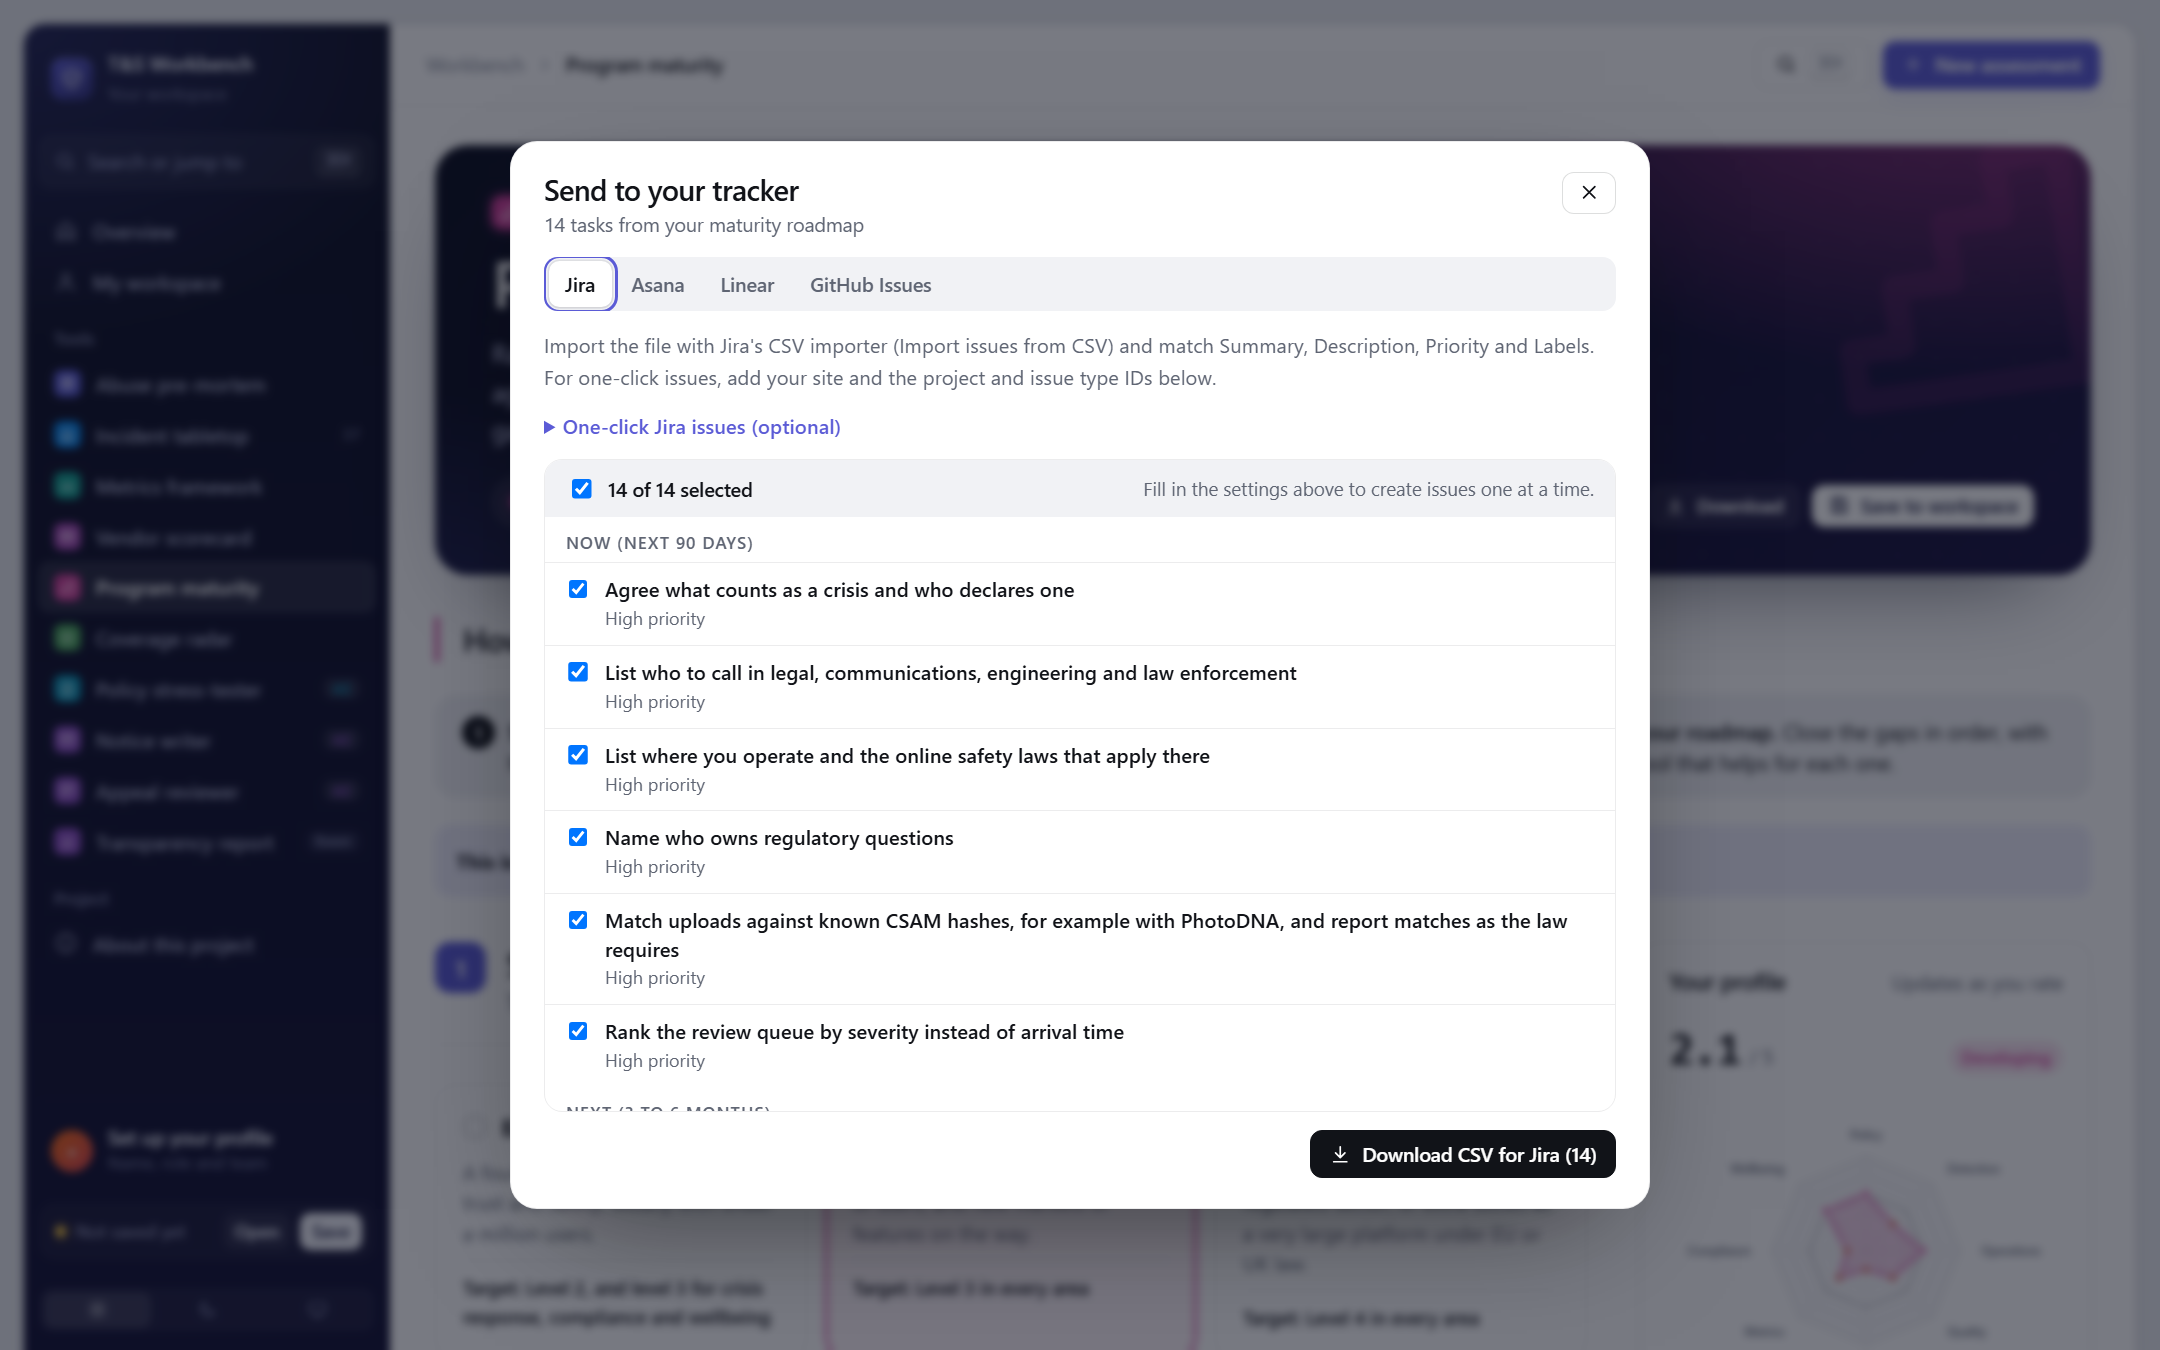
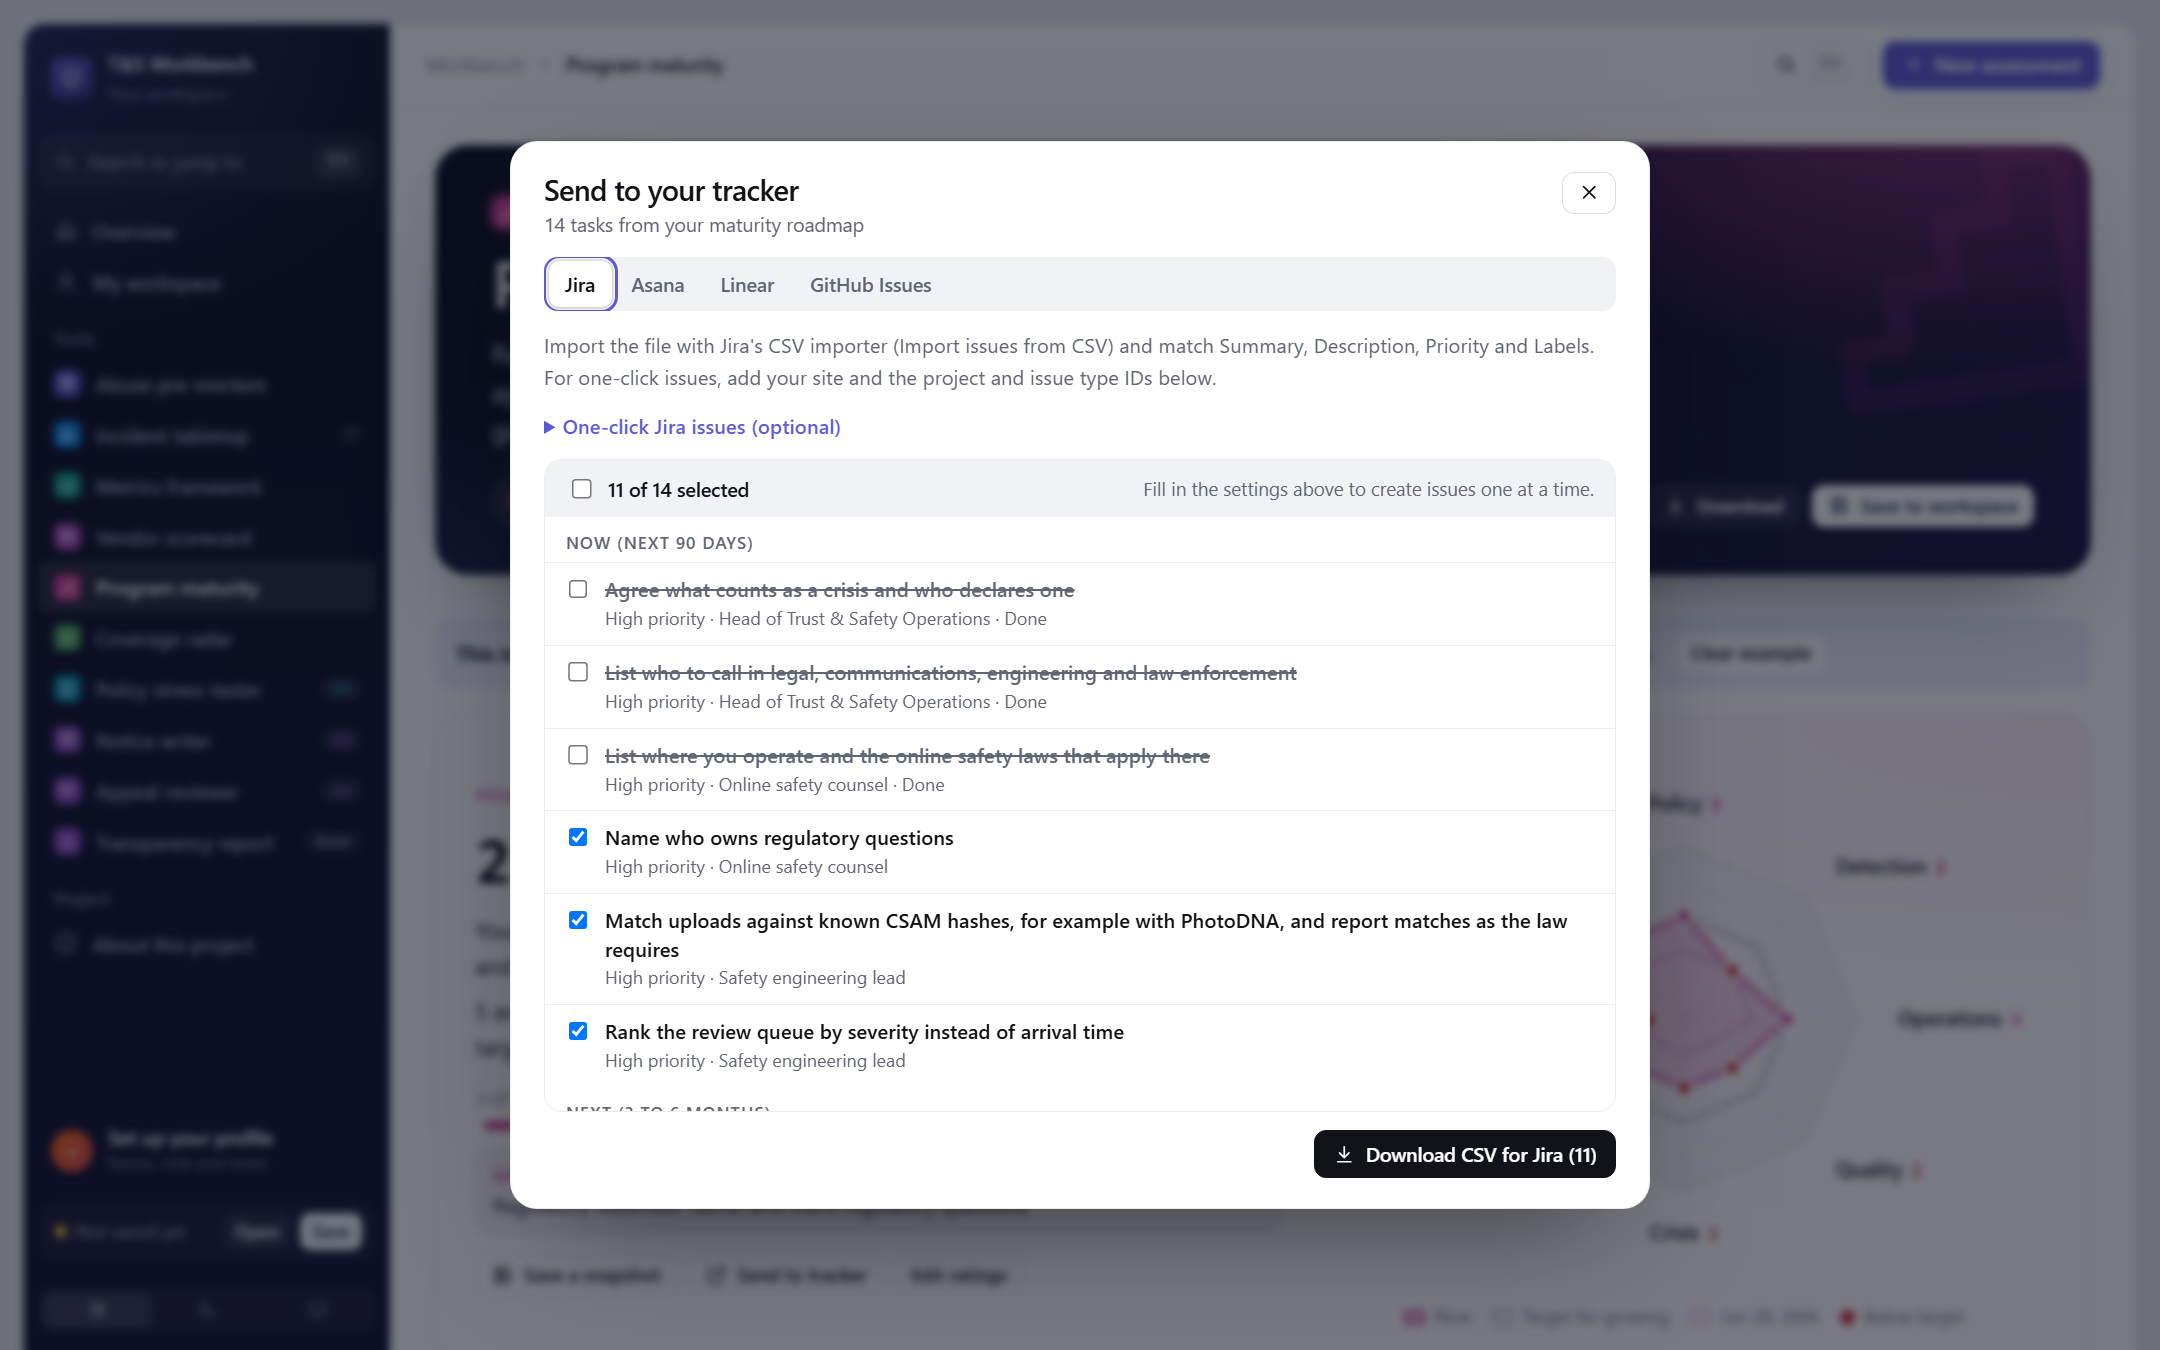
Program maturity: work the plan, with levels that rise as steps are done, owners, due dates, a ladder per area and progress snapshots; coverage gaps ranked by what matters most

diff --git a/README.md b/README.md
@@ -2,7 +2,7 @@
 
 > **How mature is your Trust & Safety program, and what should you fix first?**
 
-Rate a Trust & Safety program in 8 areas, from policy and detection to crisis response and reviewer wellbeing, on five plain-language levels. See where it stands against the targets for its stage on a radar, then get a phased roadmap that tackles the biggest gaps first and links each one to the tool that helps close it.
+Rate a Trust & Safety program in 8 areas, from policy and detection to crisis response and reviewer wellbeing, on five plain-language levels. Then work the plan: a phased roadmap with owners and due dates, where finishing the steps for a level moves that area up on the radar. Quarterly snapshots show leadership how far the program has come.
 
 **[Try it live](https://stevenmacchia.github.io/ts-workbench/#maturity)** · part of [T&S Workbench](https://github.com/stevenmacchia/ts-workbench) · free, no sign-up
 
@@ -15,8 +15,8 @@ Leaders are asked "how mature is our safety program?" by boards, regulators, acq
 ## How it works
 
 1. **Set your stage.** Early, growing, or at scale and regulated. Targets rise with size, but crisis response, compliance and wellbeing never drop below level 3.
-2. **Rate each area.** One area at a time, pick the highest level where every statement is true today.
-3. **Get your roadmap.** A radar of where you stand, and steps sorted into now, next and later, one level at a time.
+2. **Rate each area.** One area at a time, pick the highest level where every statement is true today. That sets your baseline.
+3. **Work the plan.** A roadmap in now, next and later, with owners and due dates. Tick off both steps for a level and the area moves up. Each area has a ladder of evidence, and snapshots track progress over time.
 
 Send the roadmap to Jira, Asana or Linear as a CSV, or open each step as a pre-filled Jira, Linear or GitHub issue.
 
@@ -40,9 +40,11 @@ The tool's knowledge, published as open content you can read, reuse and adapt.
 
 ## More screenshots
 
-![maturity-roadmap](assets/maturity-roadmap.png)
-
 ![maturity-areas](assets/maturity-areas.png)
+
+![maturity-progress](assets/maturity-progress.png)
+
+![maturity-flow](assets/maturity-flow.png)
 
 ![maturity-tracker](assets/maturity-tracker.png)
 
